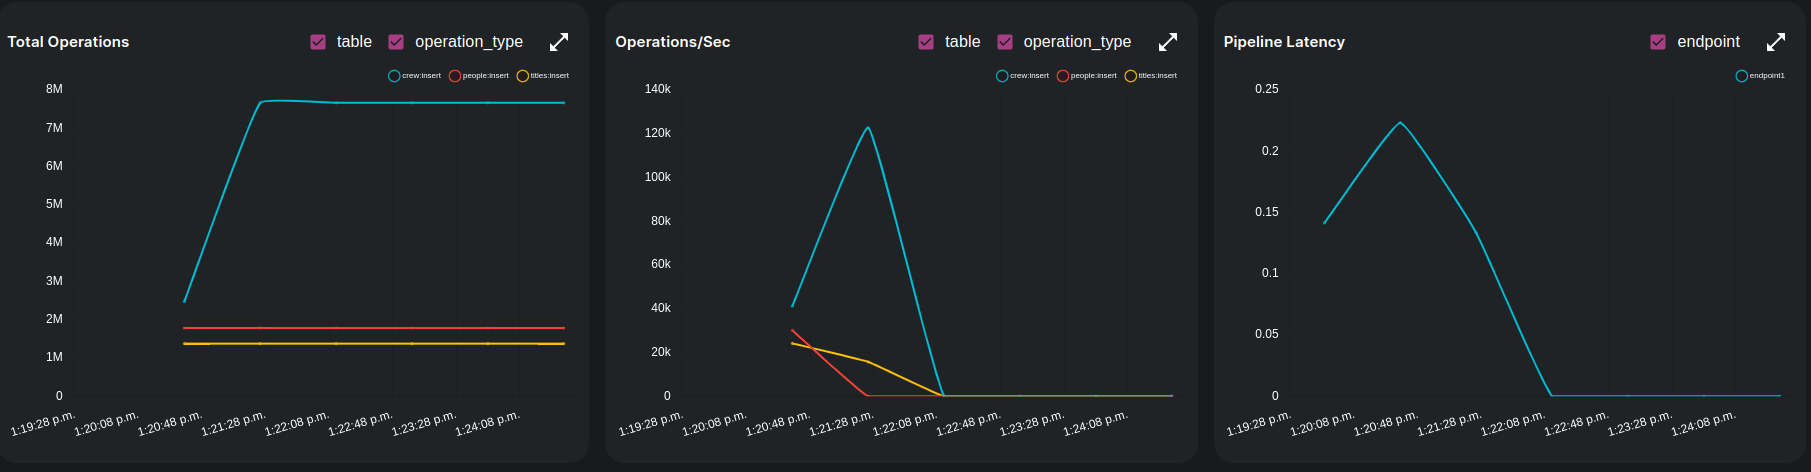
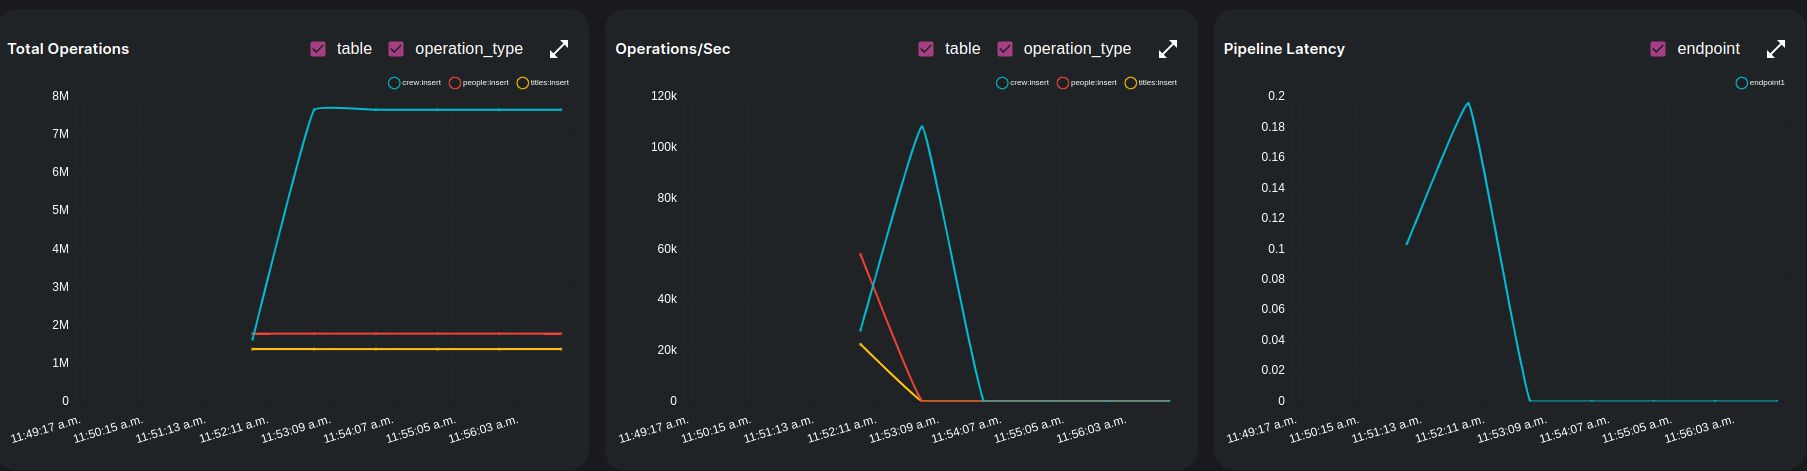
exp4 added

diff --git a/usecases/imdb-analytics/description_files/experiment4.md b/usecases/imdb-analytics/description_files/experiment4.md
@@ -1,36 +1,60 @@
 #IMDB - Analytics
 
-## Experiment 3 lorem ipsum
+## Experiment 4
 
-Running `dozer` with multiple cte defined as well as multiple aggregation and join operations.
+Lets try out the [previous experiment](./experiment3.md) using sub queries instead of CTEs.
 
-We run 3 cascading JOINs and a COUNT aggregation on the data source. The sql can be found in [`cte-config.yaml`](../cte-config.yaml).
+Find the actors and actresses with the most action movies.
+
+We use two subqueries to filter out the tables before joining all of them. The config file can be found [here](../exp4-config.yaml).
 
 ```sql
-select c.customer_id, c.name, c.email,  o.order_id, o.order_date, o.total_amount, COUNT(*)
-  into customer_orders 
-  from customers c
-  inner join orders o on c.customer_id = o.customer_id
-  join order_items i on o.order_id = i.order_id
-  join products p on i.product_id = p.product_id
-  group by c.customer_id, c.name, c.email, o.order_id, o.order_date, o.total_amount
+ SELECT p.name, r.category, COUNT(1) AS titles
+ INTO out_table
+ FROM (   
+ SELECT person_id, category, title_id   
+ FROM crew   
+ WHERE category = 'actor' OR category = 'actress'
+ ) r
+ JOIN (   
+ SELECT title_id  
+ FROM titles   
+ WHERE genres LIKE '%Action%'
+ ) a ON a.title_id = r.title_id
+ JOIN people p ON p.person_id = r.person_id 
+ GROUP BY p.name, r.category;
 ```
+
+![Experiement 4](../images/experiment_4_diagram.png)
 
 ### Instructions
 ```
-dozer clean -c cte-config.yaml
-dozer build -c cte-config.yaml
-dozer run app -c cte-config.yaml
+dozer clean -c exp4-config.yaml
+dozer build -c exp4-config.yaml
+dozer run app -c exp4-config.yaml
+```
+
+Dozer should start running after executing the commands, but ordering the data is still left! Dozer API provides the option to add query such as `order by`, `limit` and many more... to improve the visibility of the data on the endpoints.
+
+The query described can be passed to the REST endpoints `GET:localhost:8080/endpoint1` to order the data in descending order w.r.t `titles`.
+```json
+{
+  "order_by":{"titles":"desc"}
+}
 ```
 
 ### Findings
 
-![Experiement 2](../images/experiment_2.png)
+#### Source
+![Insights](../images/exp4_source.png)
 
- - Roughly took `12 mins` to process all the records. 
- - Note that here total number of `order_items` increases in conjunction with `products`. This is to due to the dependency of the join. 
- - Pipeline latency stays under `1s` even with 4 joins and an aggregation.
+#### Stores
+![Insights](../images/exp4_stores.png)
+
+ - Roughly took `2 mins` to process all the records. 
+ - The number of store operations are very much similar to Exp3.
+ - Pipeline latency stayed under `0.1s`.
  
-| Start Time | End Time   | Elapsed   |
-| ---------- | ---------- | --------- |
-| 2:32:48 PM | 2:44:51 PM | ~ 12 mins |
+| Start Time  | End Time   | Elapsed    |
+| ----------- | ---------- | ---------- |
+| 11:30:54 PM | 11:32:49 PM | ~ 2 mins  |

diff --git a/usecases/imdb-analytics/README.md b/usecases/imdb-analytics/README.md
@@ -31,11 +31,12 @@ It is also important to note, the experiments are being run on a NVMe SSD which 
 
 ## Experiments
 
-In this section we perform various experiments with different configuration files and analyze their performance results.
+- In this section we perform various experiments with different configuration files and analyze their performance results.
+- Experiments 2,3,4 are essentially the same, done via different ways.
 
 | Sr.no |   Experiment   | Aggregations |  JOINs  |   CTEs  |                  Description                     |
 | ------| -------------- | ----------- | ------- | ------- | ------------------------------------------------ |
 |   1   | [No ops](./description_files/experiment1.md) |      0      |    0    |    0    | Running directly from source to cache      |
-|   2   | [Double JOIN](./description_files/experiment2.md) |      1      |    2    |    0    | Running with two JOIN operation            |
-|   3   | [CTEs & JOIN](./description_files/experiment3.md) |      2      |    2    |    2    | Running with CTE & JOIN operations         |
-|   4   | [CTE & JOIN](./description_files/experiment4.md) |      1      |    1    |    1    | Running with a CTE and a join operation    |
+|   2   | [Double JOINs](./description_files/experiment2.md) |      1      |    2    |    0    | Running with two JOIN operation            |
+|   3   | [CTEs & JOINs](./description_files/experiment3.md) |      1      |    2    |    2    | Running with CTE & JOIN operations         |
+|   4   | [Sub Queries](./description_files/experiment4.md) |      1      |    2    |    0    | Running with sub queires & JOINs    |

diff --git a/usecases/imdb-analytics/description_files/experiment2.md b/usecases/imdb-analytics/description_files/experiment2.md
@@ -2,17 +2,18 @@
 
 ## Experiment 2
 
-Finding the actors and actresses with the most movies.
+Finding the actors and actresses with the most action movies.
 
 We run 2 cascading JOINs and a COUNT aggregation on the data source. The config file be found [here](../exp2-config.yaml).
 
 ```sql
  select p.name, c.category, count(1) as titles
- into endpoint1
+ into out_table
  from people p 
  join crew c on p.person_id = c.person_id  
  join titles t on t.title_id = c.title_id  
- where c.category = 'actor' or c.category = 'actress'
+ where (c.category = 'actor' or c.category = 'actress')
+ and t.genres like '%Action%'
  group by p.name,c.category;
 ```
 
@@ -44,11 +45,10 @@ The query described can be passed to the REST endpoints `GET:localhost:8080/endp
 
  - Roughly took `2 mins` to process all the records. 
  - Exp 2 took less time than Exp 1 even with a sql operation. This can be attributed to three reasons,
-   - Less store operations due to one endpoint and less data outputted `103734` rows to be exact.
    - Less read operations from source due to data being read from three tables.
    - Excellent pipline latency even with 2 joins and an aggregation. 
- - Pipeline latency stays under `0.25s` even with 2 joins and an aggregation.
+ - Pipeline latency stays under `0.2s` even with 2 joins and an aggregation.
  
-| Start Time | End Time   | Elapsed   |
-| ---------- | ---------- | --------- |
-| 1:20:36 PM | 1:22:12 PM | ~ 2 mins  |
+| Start Time  | End Time     | Elapsed   |
+| ----------- | ------------ | --------- |
+| 11:51:56 PM | 11:53:50 PM  | ~ 2 mins  |

diff --git a/usecases/imdb-analytics/description_files/experiment3.md b/usecases/imdb-analytics/description_files/experiment3.md
@@ -2,11 +2,11 @@
 
 ## Experiment 3
 
-Finding the actors and actresses with the most ACTION movies.
+Finding the actors and actresses with the most action movies.
 
-Dozer SQL provides us with CTEs which can improve readability as well as possibly improve performance by truncating the data before JOINs happen.
+Dozer SQL provides us with CTEs which can improve readability, as well as the option to reuse the same query multiple times.
 
-We can use a similar approach as used in the [previous example](./experiment2.md), or use CTEs as described. The config file can be found in [`exp3-config.yaml`](../exp3-config.yaml).
+We can use a similar approach as used in the [previous example](./experiment2.md), or use CTEs as described. The config file can be found [here](../exp3-config.yaml).
 
 ```sql
  with acting_crew as (
@@ -56,8 +56,7 @@ The query described can be passed to the REST endpoints `GET:localhost:8080/endp
 ![Insights](../images/exp3_stores.png)
 
  - Roughly took `2 mins` to process all the records. 
- - Took about the same time as Exp2 since the same data was ingested, and processing of data was less contributing to the overall time.
- - There were significantly less store operations than Exp2, majorly due to CTEs being introducted.
+ - Took about the same time as Exp2 since the same data was ingested.
  - Pipeline latency stayed under `0.25s`.
  
 | Start Time  | End Time   | Elapsed    |
